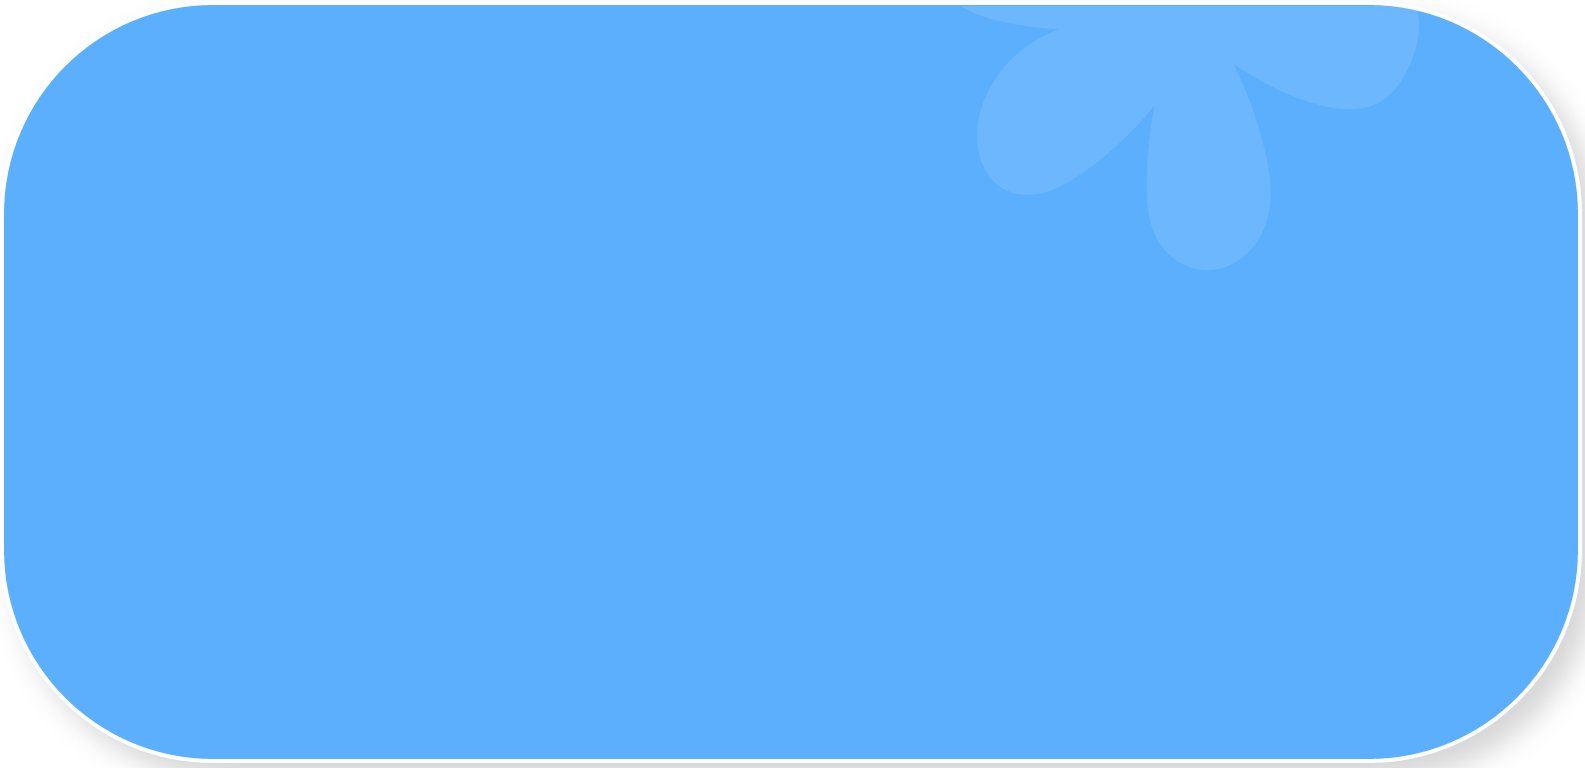
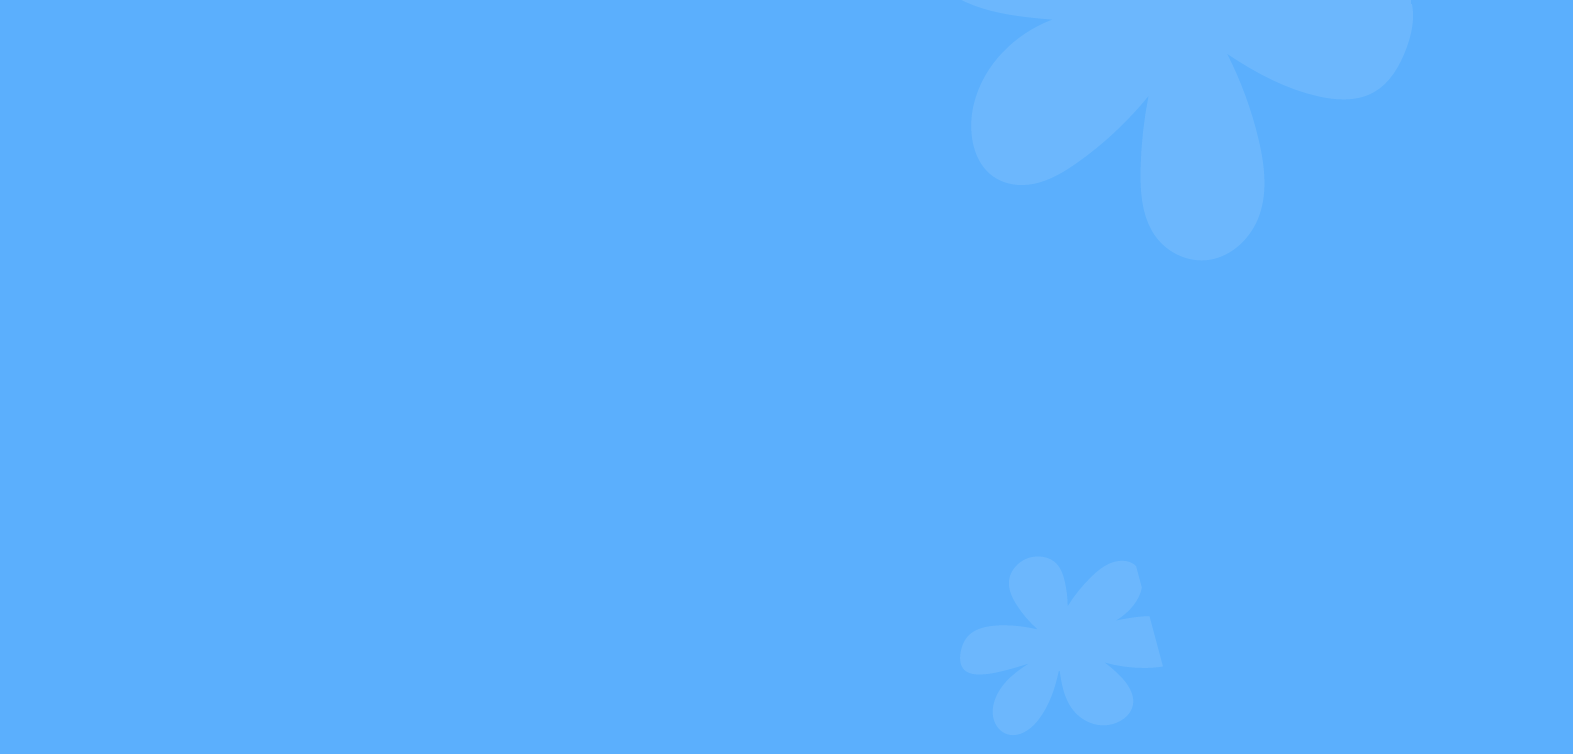
fix: background images on intro, grow and phase three cards

Changed region(s): [[0.0, 0.0, 1.0, 1.0]]

diff --git a/libs/fe-libs/src/lib/cards/components/intro-card/intro-card.tsx b/libs/fe-libs/src/lib/cards/components/intro-card/intro-card.tsx
@@ -3,7 +3,6 @@ import { useTranslation } from 'react-i18next';
 import { useRouter } from '../../../routing/hooks/use-router';
 import { Button } from '../../../ui/components/button/button';
 import Kanjis from '../../../../../assets/svgs/kanjis.svg';
-// import IntroGreen from '../../../../../assets/pngs/bg_intro_green.png';
 import IntroEgg from '../../../../../assets/pngs/bg_intro_egg.png';
 import IntroSakuMonsters from '../../../../../assets/pngs/intro_saku_monster.png';
 import IntroBirdmonster from '../../../../../assets/pngs/intro_birdmonster.png';
@@ -16,9 +15,6 @@ export function IntroCard() {
     <div className={styles['container']}>
       <div className={styles['intro-card-container']}>
         <div className={styles['bg']} />
-        {/* <div className={styles['bg-container']}>
-          <img src={IntroGreen} alt="bg-intro-green" />
-        </div> */}
         <div className={styles['content']}>
           <div className={styles['left']}>
             <div className={styles['up']}>

diff --git a/libs/fe-libs/src/lib/cards/components/phase-three/phase-three.module.scss b/libs/fe-libs/src/lib/cards/components/phase-three/phase-three.module.scss
@@ -3,11 +3,13 @@
 @use 'card' as c;
 
 .container {
-  margin: 316px auto 0;
-  width: 328px;
+  // margin: 316px auto 0;
+  margin: 316px 11px 0;
+  // width: 328px;
 
   @include mq.medium-tablet {
     height: 590px;
+    margin: 316px auto 0;
     width: 916px;
   }
 
@@ -37,9 +39,11 @@
 .bg-pt-card {
   @include c.card;
   @include c.bg-card;
-  z-index: 2;
-  background-image: url('../../../../../assets/pngs/bg_phase_three_mobile.png');
+  background-color: var(--blue-700);
+  border-radius: 70px;
+  border: 3px solid var(--primary-color);
   position: absolute;
+  z-index: 5;
 
   @include mq.medium-tablet {
     background-image: url('../../../../../assets/pngs/bg_phase_three_desktop.png');

diff --git a/libs/fe-libs/src/lib/cards/components/intro-card/intro-card.module.scss b/libs/fe-libs/src/lib/cards/components/intro-card/intro-card.module.scss
@@ -43,20 +43,16 @@
 .bg {
   @include c.card;
   @include c.bg-card;
-  background-image: url('../../../../../assets/pngs/bg_intro_green.png');
-  border-radius: 80px;
+  background-image: url('../../../../../assets/pngs/bg_intro_mobile.png');
+  border-radius: 70px;
+  border: 3px solid var(--primary-color);
   position: absolute;
 
   @include mq.medium-tablet {
+    background-image: url('../../../../../assets/pngs/bg_intro_desktop.png');
     border-radius: 122px;
   }
 }
-
-// .bg-container {
-//   height: 100%;
-//   position: absolute;
-//   width: 100%;
-// }
 
 .content {
   align-items: center;

diff --git a/libs/fe-libs/src/lib/cards/components/grow-card/grow-card.module.scss b/libs/fe-libs/src/lib/cards/components/grow-card/grow-card.module.scss
@@ -27,11 +27,13 @@
 .bg {
   @include c.card;
   @include c.bg-card;
-  background-image: url('../../../../../assets/pngs/bg_grow_green.png');
-  border-radius: 80px;
+  background-color: var(--lime-green-700);
+  border-radius: 70px;
+  border: 3px solid var(--primary-color);
   position: absolute;
 
   @include mq.medium-tablet {
+    background-image: url('../../../../../assets/pngs/bg_grow_desktop.png');
     border-radius: 128px;
   }
 

diff --git a/libs/fe-libs/styles/_colors.scss b/libs/fe-libs/styles/_colors.scss
@@ -4,8 +4,10 @@
   --grey-500: #e6ebe9;
   --blue-300: #82c2fd;
   --blue-500: #57caf5;
+  --blue-700: #5baffd;
   --lime-green-300: #78dcb3;
   --lime-green-500: #4fd49f;
+  --lime-green-700: #4ed29c;
   --dark-green-300: #244106;
   --yellow-300: #fbf383;
   --orange-200: #fdbf68;
